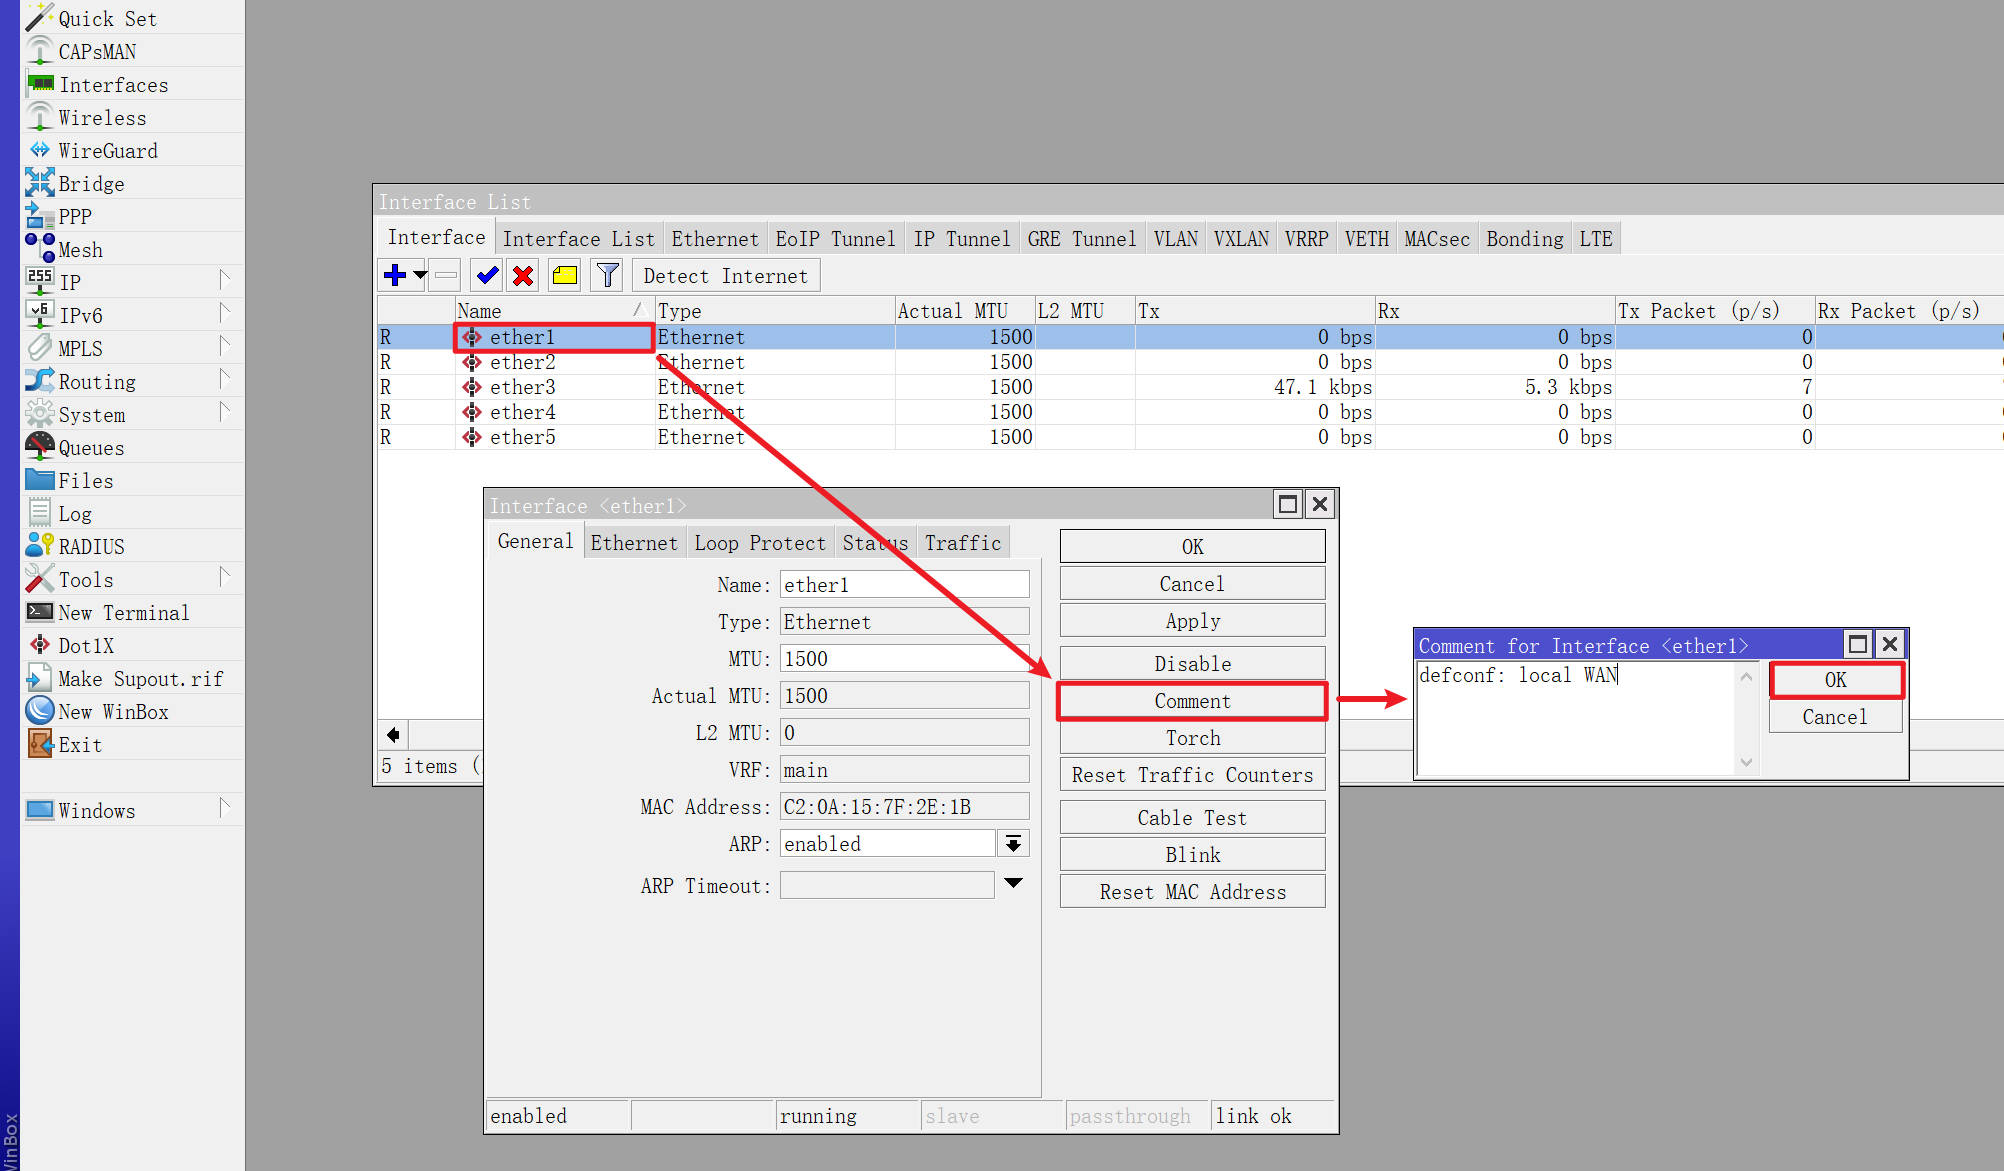
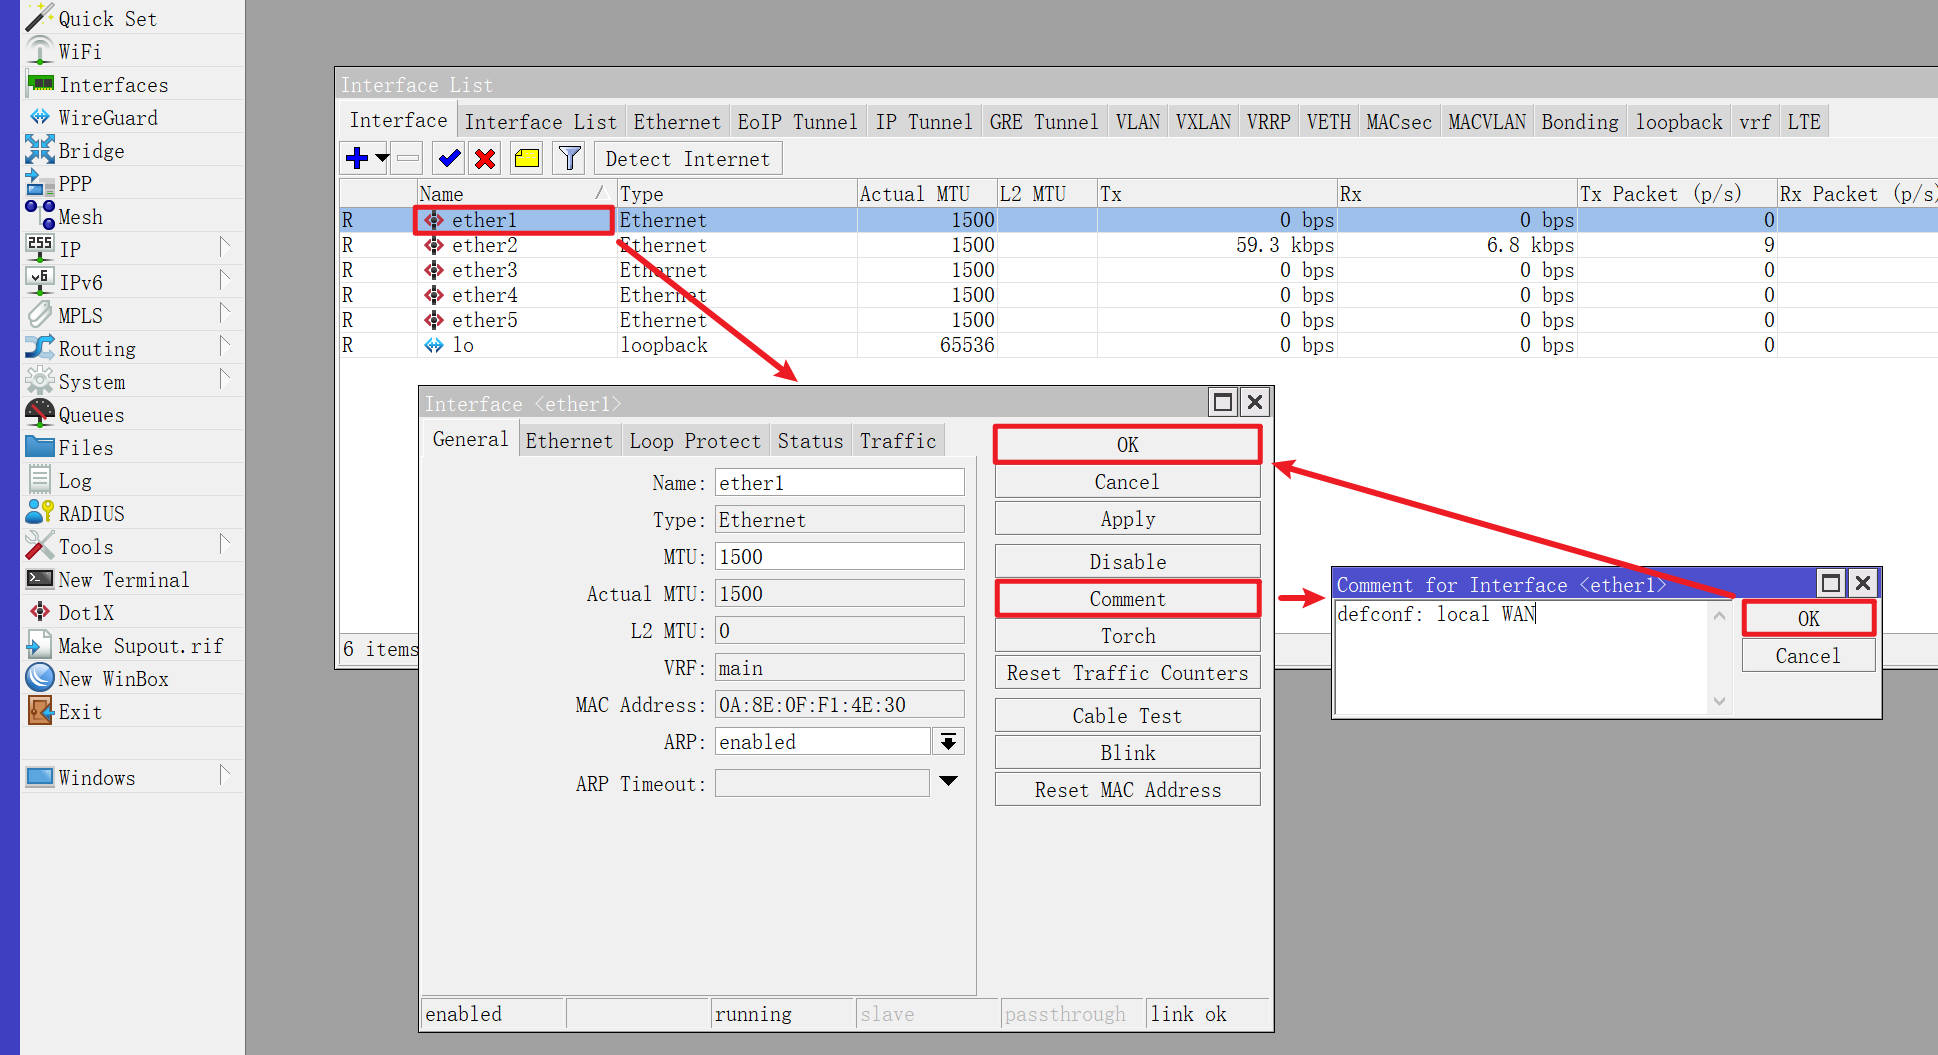
更新截图

Changed region(s): [[0.1548, 0.0607, 1.0, 1.0], [0.0, 0.0, 0.1238, 0.7583], [0.0, 0.8493, 0.031, 1.0]]

diff --git a/02.设置网络接口.md b/02.设置网络接口.md
@@ -59,7 +59,7 @@ RouterOS 及其相关系统的 IPv4 地址规划，如下图所示。
 
 使用 Winbox 登录 RouterOS ，点击左侧导航的 `Interfaces` 。  
 
-![编辑接口](img/p02/interface.png)
+![编辑接口](img/p02/interface.jpeg)
 
 检查网口，此处显示的网口数量及顺序应与 RouterOS 虚拟机中设置的保持一致。  
 
@@ -74,6 +74,7 @@ RouterOS 及其相关系统的 IPv4 地址规划，如下图所示。
 |ether3|vmbr2|ETH2|内网接口|`defconf: local LAN`|
 |ether4|vmbr3|ETH3|内网接口|`defconf: local LAN`|
 |ether5|vmbr4|无|内网接口|`defconf: local LAN for VMs`|
+|lo|无|无|环回接口|`defconf: local Loopback`|
 
 ![接口备注](img/p02/interfaces_comment.jpeg)
 
